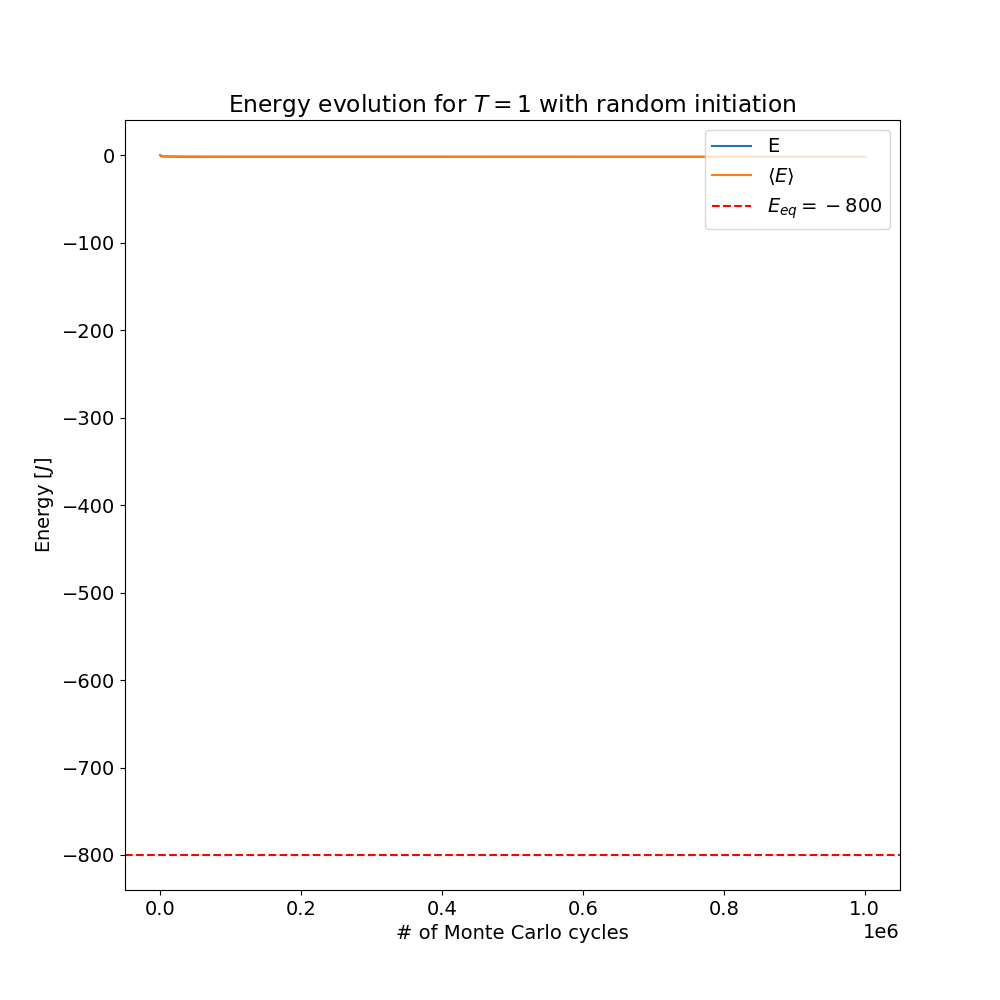
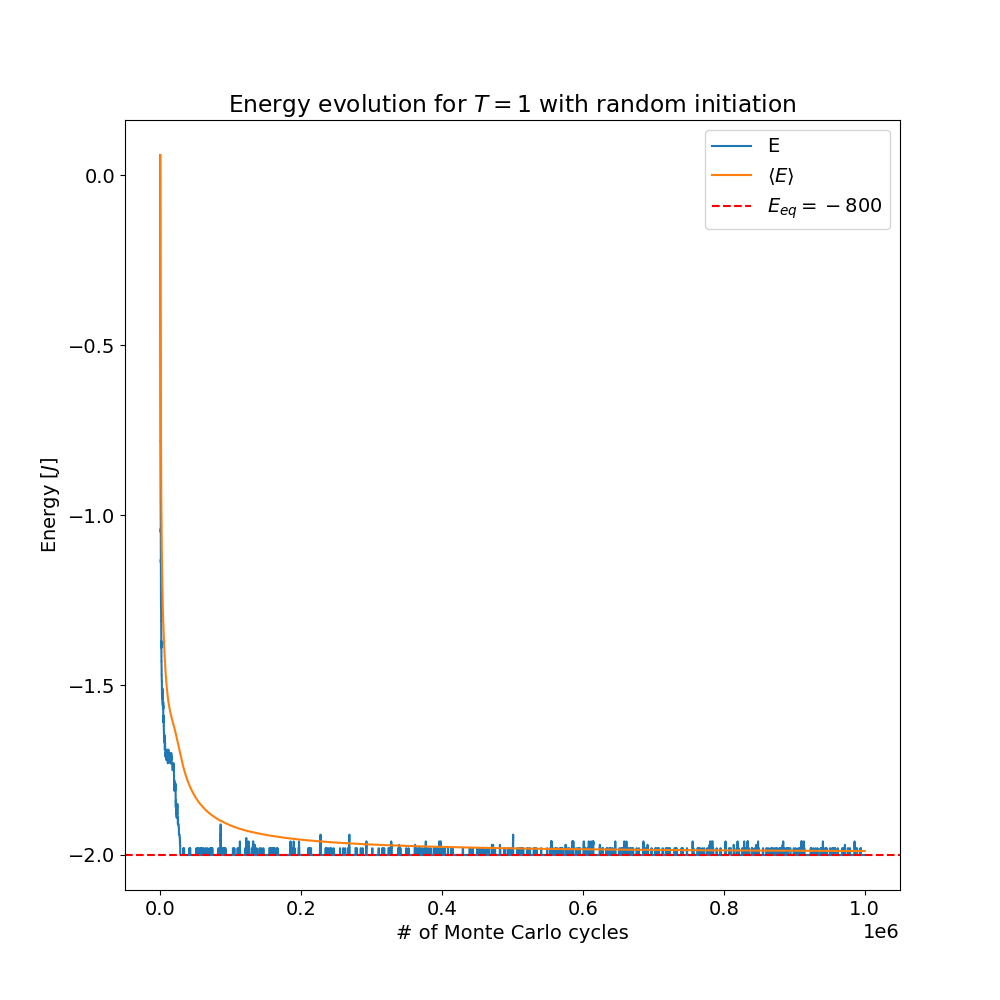
torsdag

diff --git a/project4/de.py b/project4/de.py
@@ -28,7 +28,7 @@ def calc_plot(L=20, init_state='random'):
     #plt.axvline(MC_array[indx1],c='k',ls = 'dashed')
     plt.plot(MC_array, E/L2, label='E')
     plt.plot(MC_array, E_mean/L2, label=r'$\langle E\rangle$')
-    plt.axhline(median1, c='r', ls = 'dashed',label='$E_{eq} = %i$' % median1)
+    plt.axhline(median1/L2, c='r', ls = 'dashed',label='$E_{eq} = %i$' % median1)
     plt.ylabel('Energy $[J]$')
     plt.xlabel('# of Monte Carlo cycles')
     plt.legend(loc='upper right')
@@ -78,7 +78,7 @@ def calc_plot(L=20, init_state='random'):
     #plt.axvline(MC_array[indx2],c='k',ls = 'dashed')
     plt.plot(MC_array, E2/L2, label='E')
     plt.plot(MC_array, E2_mean/L2, label=r'$\langle E\rangle$')
-    plt.axhline(median2, c='r', ls = 'dashed',label='$E_{eq} = %i$' % median2)
+    plt.axhline(median2/L2, c='r', ls = 'dashed',label='$E_{eq} = %i$' % median2)
     plt.ylabel('Energy $[J]$')
     plt.xlabel('# of Monte Carlo cycles')
     plt.legend(loc='upper right')
